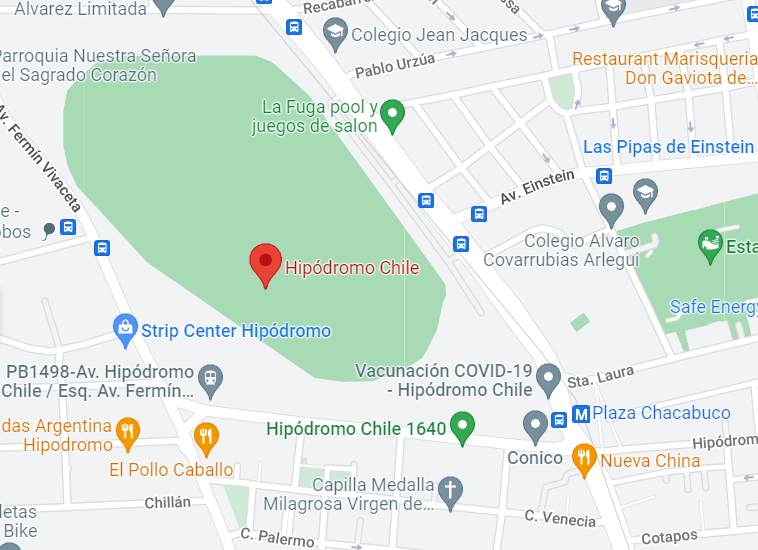
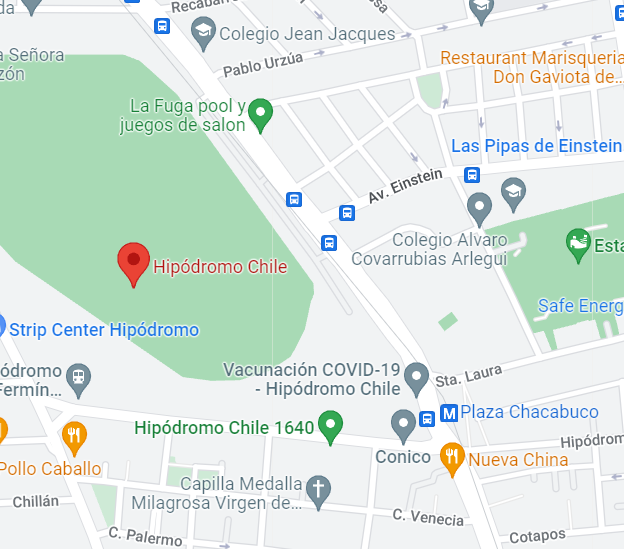
pagina parcheada

diff --git a/src/components/Imagen.jsx b/src/components/Imagen.jsx
@@ -4,15 +4,18 @@ import googlemaps from "../Assets/IMG/googleimages.png";
 
 const styles = {
   textoazul: {
-    color: "#4299E1",
+    color: "#303030",
     fontWeight: "bold",
+  },
+  imagenfull: {
+    height: "100%",
   },
 };
 
 function Imagen1() {
   return (
     <Card className="bg-dark text-white">
-      <Card.Img src={googlemaps} alt="Card image" />
+      <Card.Img src={googlemaps} style={styles.imagenfull} alt="Card image" />
       <Card.ImgOverlay>
         <Alert.Link
           href="https://www.google.com/maps/place/Hipódromo+Chile/@-33.4094399,-70.6641251,14z/data=!4m5!3m4!1s0x0:0x9ebd3e6263751d47!8m2!3d-33.4047827!4d-70.6664425"
@@ -22,7 +25,7 @@ function Imagen1() {
         </Alert.Link>
         <Card.Title></Card.Title>
         <Card.Text style={styles.textoazul}>
-          Av. Fermín Vivaceta 1372, Independencia, Región Metropolitana
+          
         </Card.Text>
       </Card.ImgOverlay>
     </Card>

diff --git a/src/pages/PagoReserva.jsx b/src/pages/PagoReserva.jsx
@@ -34,6 +34,12 @@ const PagoReservaPage = () => {
           <h2 class="tituloblanco">Cancha de Fútbol Chacabuco</h2>
         </div>
 
+        <div>
+          <h3 class="tituloblanco2">Av. Fermín Vivaceta 1372, Independencia, Región Metropolitana</h3>
+        </div>
+
+        
+
         <div className="tarjetaimagen">
           <Imagen2 className="tarjetaindividual" />
           <Imagen1 className="pb-5 mb-5" />

diff --git a/src/components/Imagen2.jsx b/src/components/Imagen2.jsx
@@ -14,8 +14,8 @@ function Imagen2() {
       <Card.Img src={estadio} alt="Card image" style={styles.imagenfull} />
       <Card.ImgOverlay>
         <Card.Title>Cancha de Fútbol Chacabuco</Card.Title>
-        <Card.Text>Cancha de fútbol compatible con niños.</Card.Text>
         <Card.Text>Horario: Lun a Viernes. 8-23PM</Card.Text>
+        <Card.Text></Card.Text>
       </Card.ImgOverlay>
     </Card>
   );

diff --git a/src/Assets/css/stylePagoReserva.css b/src/Assets/css/stylePagoReserva.css
@@ -10,6 +10,15 @@
   
 }
 
+.tituloblanco2 {
+  color: white;
+  font-family: 'Quicksand', sans-serif;
+  margin-left: 10rem;
+  margin-top: 0rem;
+  font-size: medium;
+  
+}
+
 .color-nav {
   background-color: 'orange';
 }

diff --git a/src/Assets/css/stylesForm.css b/src/Assets/css/stylesForm.css
@@ -10,9 +10,9 @@
 #exclamacion {
   color: rgb(212, 50, 50);
 }
-abbr {
+/* abbr {
   color: rgb(212, 50, 50);
-}
+} */
 /*#imprimirTicket {
   color: #f142ab;
 }*/
